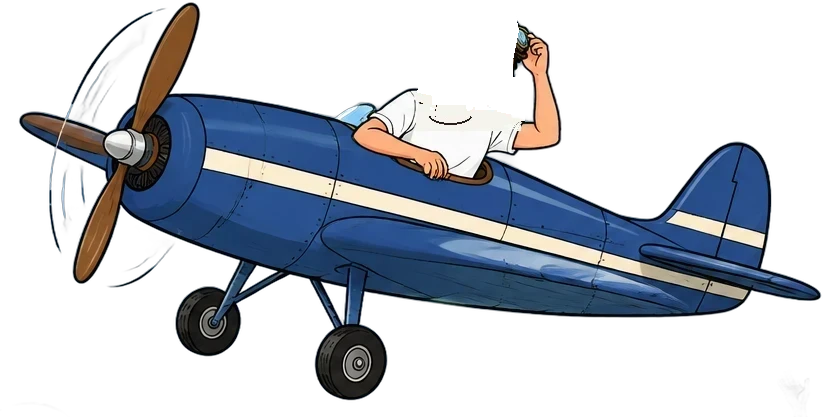
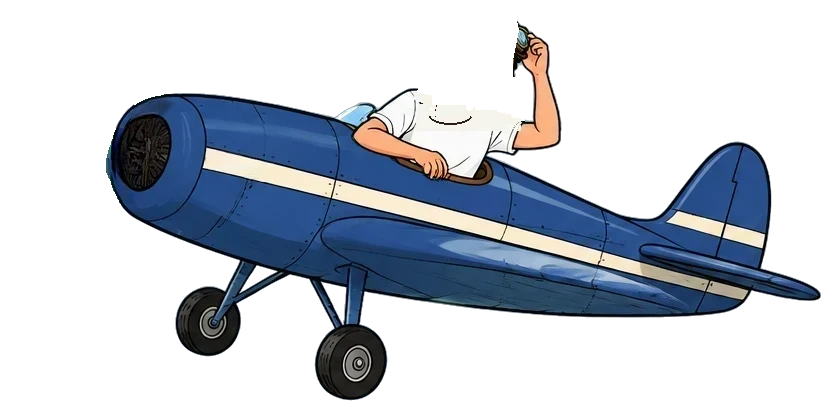
Spinning propeller
Claude-Session: https://claude.ai/code/session_014wiP6WimH2b4AML7aFrYC6

Changed region(s): [[0.0, 0.0, 0.2476, 0.6859], [0.1238, 0.0624, 0.1548, 0.1247], [0.2786, 0.4053, 0.3095, 0.4365]]

diff --git a/index.html b/index.html
@@ -112,6 +112,12 @@
   #manu .arm{position:absolute;inset:0;transform-origin:31.3% 25.6%}
   #manu > img:first-child{position:absolute;inset:0;width:100%;height:100%}
   #manu .arm img{position:absolute;inset:0;width:100%;height:100%}
+  .propwrap{position:absolute}
+  .propwrap::before{content:"";position:absolute;inset:6%;border-radius:50%;background:radial-gradient(circle,rgba(255,255,255,.0) 20%,rgba(120,80,40,.18) 60%,rgba(255,255,255,0) 72%)}
+  .sprite img.prop{position:absolute;inset:0;width:100%;height:100%;animation:spin .28s linear infinite;transform-origin:50% 50%}
+  .sprite img.prop.slow{animation-duration:1.6s}
+  @keyframes spin{to{transform:rotate(-360deg)}}
+  @media (prefers-reduced-motion:reduce){.sprite img.prop{animation-duration:3s}}
   .sprite img.head{position:absolute;display:block;max-width:none;transform-origin:50% 90%;filter:drop-shadow(0 2px 3px rgba(0,0,0,.25))}
   .sprite img.head.flip{transform:scaleX(-1)}
   #plane,#planeEmpty{transform-origin:50% 50%}
@@ -160,9 +166,9 @@
   <img class="art" data-box="0,0,1680,944" src="assets/land-day.webp" alt="">
   <img class="art ph1" data-box="0,0,1680,944" src="assets/land-sunset.webp" alt="">
   <img class="art ph2" data-box="0,0,1680,944" src="assets/land-night.webp" alt="">
-<div id="plane" class="sprite"><img src="assets/plane-body.webp" alt=""><img id="hPlane2" class="head flip" src="assets/head-p-walk-n.webp" alt="" style="left:47.62%;top:-12.47%;width:13.87%;height:40.42%;opacity:0"><img id="hPlane" class="head flip" src="assets/head-p-plane-n.webp" alt="" style="left:48.21%;top:-11.51%;width:13.26%;height:41.55%"></div>
+<div id="plane" class="sprite"><img src="assets/plane-body.webp" alt=""><div class="propwrap" style="left:-3.333%;top:-1.679%;width:35.714%;height:71.942%"><img class="prop" src="assets/propeller.webp" alt=""></div><img id="hPlane2" class="head flip" src="assets/head-p-walk-n.webp" alt="" style="left:47.62%;top:-12.47%;width:13.87%;height:40.42%;opacity:0"><img id="hPlane" class="head flip" src="assets/head-p-plane-n.webp" alt="" style="left:48.21%;top:-11.51%;width:13.26%;height:41.55%"></div>
   <div id="manu" class="sprite"><img src="assets/manu-body.webp" alt=""><div class="arm"><img src="assets/manu-arm.webp" alt=""></div><img id="hManu" class="head" src="assets/head-m-wave.webp" alt="" style="left:29.57%;top:10.45%;width:47.91%;height:27.03%"><img id="hManuR" class="head" src="assets/head-m-upright.webp" alt="" style="left:28.70%;top:10.45%;width:46.90%;height:27.03%;opacity:0"><img id="hManuL" class="head" src="assets/head-m-left.webp" alt="" style="left:26.96%;top:11.17%;width:43.43%;height:26.31%;opacity:0"></div>
-  <div id="planeEmpty" class="sprite"><img src="assets/plane-empty.webp" alt=""></div>
+  <div id="planeEmpty" class="sprite"><img src="assets/plane-empty.webp" alt=""><div class="propwrap" style="left:-3.333%;top:-1.679%;width:35.714%;height:71.942%"><img class="prop slow" src="assets/propeller.webp" alt=""></div></div>
   <div id="walker" class="sprite"><img src="assets/walker-body.webp" alt=""><img id="hWalk" class="head" src="assets/head-p-walk.webp" alt="" style="left:26.79%;top:-10.00%;width:35.95%;height:28.00%"></div>
   <div id="hug" class="sprite"><img src="assets/hug-body.webp" alt=""><img id="hHugM" class="head" src="assets/head-m-hug.webp" alt="" style="left:19.86%;top:-5.06%;width:28.13%;height:24.19%"><img id="hHugP" class="head" src="assets/head-p-hug.webp" alt="" style="left:-1.89%;top:3.94%;width:25.04%;height:18.85%"></div>
   <div id="hearts"></div>
